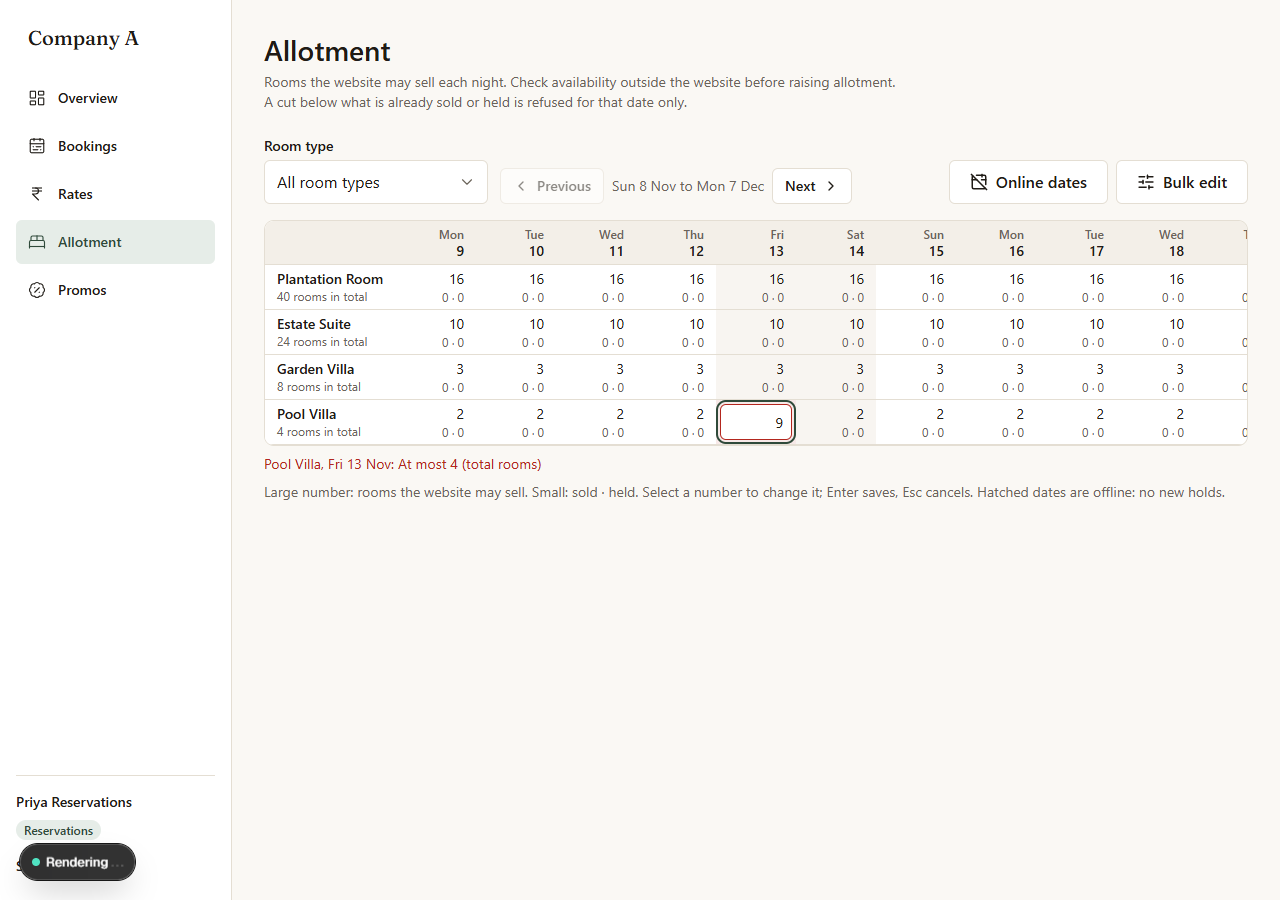
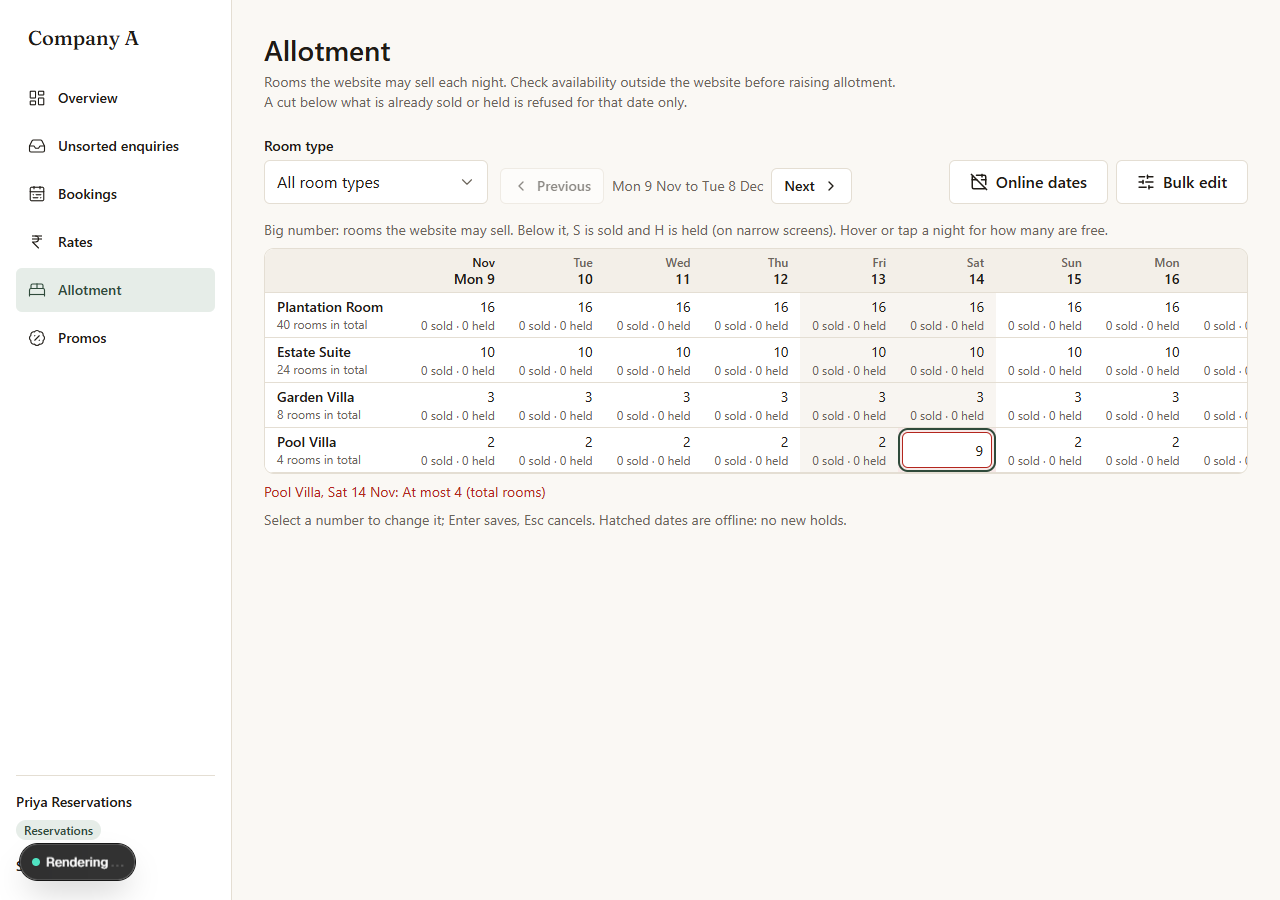
feat(admin): readable allotment labels (sold, held, free) with a legend

Changed region(s): [[0.1875, 0.2489, 0.9688, 0.5911], [0.0, 0.1556, 0.1875, 0.4044], [0.4688, 0.1867, 0.625, 0.2178]]

diff --git a/src/app/(staff)/admin/(app)/allotment/allotment-board.tsx b/src/app/(staff)/admin/(app)/allotment/allotment-board.tsx
@@ -12,6 +12,7 @@ import {
   rejectionMessage,
   ALL_DAYS,
 } from "@/modules/admin/rules";
+import { freeLabel, stockLabel } from "@/modules/admin/rules";
 import type { AllotmentGridRow, BlackoutRow, RejectedAllotment } from "@/modules/admin";
 import { CheckGroup, dateColumns, DateStepper, DayPicker } from "../_components/grid-dates";
 import { setAllotmentAction } from "./actions";
@@ -79,25 +80,26 @@ export function AllotmentBoard({
   const visible = rows.filter((r) => room === "all" || r.roomTypeId === room);
   const gridRows: GridRow[] = visible.map((r) => {
     const cells: GridRow["cells"] = {};
-    const sub: Record<string, string> = {};
+    const sub: NonNullable<GridRow["sub"]> = {};
     const tone: NonNullable<GridRow["tone"]> = {};
     const note: Record<string, string> = {};
     for (const c of columns) {
       const n = r.nights[c.key];
       cells[c.key] = n ? n.allotment : null;
-      if (n) sub[c.key] = `${n.sold} · ${n.held}`;
-      else note[c.key] = "No stock row yet. Set a number to create it.";
+      if (n) sub[c.key] = stockLabel(n.sold, n.held);
       const off = offlineOn(blackouts, r.roomTypeId, c.key);
-      if (off) {
-        tone[c.key] = "offline";
-        note[c.key] =
-          `Offline${off.roomTypeId === null ? " (all rooms)" : ""}: ${off.reason ?? "no reason given"}`;
-      }
+      if (off) tone[c.key] = "offline";
       const why = rejectedCells[`${r.roomTypeId}|${c.key}`];
-      if (why) {
-        tone[c.key] = "danger";
-        note[c.key] = why;
-      }
+      if (why) tone[c.key] = "danger";
+      note[c.key] = [
+        why,
+        off
+          ? `Offline${off.roomTypeId === null ? " (all rooms)" : ""}: ${off.reason ?? "no reason given"}`
+          : null,
+        n ? freeLabel(n) : "No stock row yet. Set a number to create it.",
+      ]
+        .filter(Boolean)
+        .join(". ");
     }
     return {
       id: r.roomTypeId,
@@ -191,6 +193,10 @@ export function AllotmentBoard({
 
       <div className={panel !== "none" ? "grid gap-4 xl:grid-cols-[minmax(0,1fr)_340px]" : ""}>
         <div className="flex min-w-0 flex-col gap-2">
+          <p className="text-small text-muted" id="allotment-legend">
+            Big number: rooms the website may sell. Below it, S is sold and H is held (on narrow
+            screens). Hover or tap a night for how many are free.
+          </p>
           <DataGrid
             caption="Website allotment per night"
             columns={columns}
@@ -201,8 +207,7 @@ export function AllotmentBoard({
             emptyMessage="No room types match this filter."
           />
           <p className="text-small text-muted">
-            Large number: rooms the website may sell. Small: sold · held. Select a number to change
-            it; Enter saves, Esc cancels.
+            Select a number to change it; Enter saves, Esc cancels.
             {canToggle ? " Hatched dates are offline: no new holds." : ""}
           </p>
         </div>

diff --git a/src/components/ui/data-grid.tsx b/src/components/ui/data-grid.tsx
@@ -32,8 +32,12 @@ export type GridRow = {
   cells: Record<string, string | number | null>;
   /** Text shown instead of the raw value, e.g. "₹12,400" for 12400. */
   display?: Record<string, string>;
-  /** Small secondary text under a cell value, e.g. "3 · 1". */
-  sub?: Record<string, string>;
+  /**
+   * Small secondary text under a cell value. `{ full, short }` shows `full` from the md
+   * breakpoint and `short` below it (e.g. "0 sold · 1 held" / "S 0 · H 1"); explain `short` in a
+   * legend. Screen readers always get `full`.
+   */
+  sub?: Record<string, string | { full: string; short: string }>;
   tone?: Record<string, CellTone>;
   /** Why a cell looks the way it does; shown on hover, focus or tap. */
   note?: Record<string, string>;
@@ -141,7 +145,8 @@ export function DataGrid({
                     row.display?.[c.key] ?? (value === null ? "—" : String(value ?? ""));
                   const tone = row.tone?.[c.key];
                   const note = row.note?.[c.key];
-                  const sub = row.sub?.[c.key];
+                  const subText = row.sub?.[c.key];
+                  const sub = typeof subText === "object" ? subText.full : subText;
                   const saved = sameCell(edit.saved, here);
                   const content = (
                     <>
@@ -151,7 +156,18 @@ export function DataGrid({
                         ) : null}
                         {shown}
                       </span>
-                      {sub ? <span className="text-xs text-muted">{sub}</span> : null}
+                      {typeof subText === "object" ? (
+                        <>
+                          <span className="hidden text-xs whitespace-nowrap text-muted md:inline">
+                            {subText.full}
+                          </span>
+                          <span className="text-xs whitespace-nowrap text-muted md:hidden">
+                            {subText.short}
+                          </span>
+                        </>
+                      ) : sub ? (
+                        <span className="text-xs text-muted">{sub}</span>
+                      ) : null}
                     </>
                   );
                   return (

diff --git a/src/modules/admin/rules.test.ts b/src/modules/admin/rules.test.ts
@@ -1,5 +1,7 @@
 import { describe, expect, it } from "vitest";
 import {
+  freeLabel,
+  stockLabel,
   adminWindow,
   bulkPreview,
   clampGridStart,
@@ -107,5 +109,17 @@ describe("parseRupees", () => {
     expect(parseRupees("12.5")).toBeNaN();
     expect(parseRupees("-5")).toBeNaN();
     expect(parseRupees("")).toBeNaN();
+  });
+});
+
+describe("allotment cell labels", () => {
+  it("spells out sold and held, with a short form for narrow screens", () => {
+    expect(stockLabel(0, 1)).toEqual({ full: "0 sold · 1 held", short: "S 0 · H 1" });
+  });
+  it("free count never goes below 0", () => {
+    expect(freeLabel({ allotment: 4, sold: 1, held: 1 })).toBe(
+      "2 free to sell (allotment 4, 1 sold, 1 held)",
+    );
+    expect(freeLabel({ allotment: 1, sold: 1, held: 1 })).toMatch(/^0 free/);
   });
 });

diff --git a/src/modules/admin/rules.ts b/src/modules/admin/rules.ts
@@ -105,3 +105,14 @@ export function rejectionMessage(r: {
     ? `At least ${r.min} (already sold or held)`
     : `At most ${r.cap} (total rooms)`;
 }
+
+/** Sold and held under the allotment: spelled out when there is room, letters on narrow screens. */
+export function stockLabel(sold: number, held: number) {
+  return { full: `${sold} sold · ${held} held`, short: `S ${sold} · H ${held}` };
+}
+
+/** Tooltip/tap text: rooms still free to sell on the website that night. */
+export function freeLabel(n: { allotment: number; sold: number; held: number }) {
+  const free = Math.max(0, n.allotment - n.sold - n.held);
+  return `${free} free to sell (allotment ${n.allotment}, ${n.sold} sold, ${n.held} held)`;
+}

diff --git a/src/app/dev/ui/showcase.tsx b/src/app/dev/ui/showcase.tsx
@@ -353,7 +353,9 @@ export function Showcase({ quoteFixture }: { quoteFixture: Quote }) {
             const n = Number(value);
             if (!Number.isInteger(n) || n < 0) return "Enter a whole number, 0 or more.";
             const row = rows.find((r) => r.id === rowId)!;
-            const committed = Number(row.sub?.[key]?.match(/sold (\d+)/)?.[1] ?? 0);
+            const sub = row.sub?.[key];
+            const text = typeof sub === "object" ? sub.full : sub;
+            const committed = Number(text?.match(/sold (\d+)/)?.[1] ?? 0);
             if (n < committed)
               return `Cannot go below ${committed}: that many rooms are already sold or held on this date.`;
             setRows((rs) =>

diff --git a/docs/s2-admin-handoff.md b/docs/s2-admin-handoff.md
@@ -34,6 +34,7 @@ Verdict FIX MAJORS: 0 blockers, 3 majors. Scrum master decisions approved in the
 | M01 rates grid: saved prices are an optimistic overlay `{ value, version }` (`rates/rate-overlay.ts`, pure, 7 unit tests); refreshed rows drop overlays they match or that are not newer than the last refresh; a bulk save clears overlays in its rooms, plans, dates and weekdays; an older response cannot restore one | done | 2f13d89 |
 | M02 `setOffline` creates missing stock rows (0, 0, 0) in `(room_type_id, date)` order, then the existing ordered lock, then the blackout. Test seam `afterLock`. PostgreSQL test: offline paused after locking, A2 on the missing date stays blocked (15 s), a guest hold fails, then BLACKOUT, no HELD booking. Same test fails with the fix removed (A2 settled in about 3 s) | done | 48d9d78 |
 | M03 approved booking read `booking.listOverlappingForStaff` (`booking/{index,staff}.ts`: overlap, room filter and live statuses in SQL before the limit, keyset cursor on check_in, id); `bookingsInRange` pages it to 1,000, else `truncated`; panel shows "More than 1,000 bookings overlap..." and keeps the action; 60 day look-back removed. PostgreSQL `admin-warning.test.ts` 3/3: the audit's 200-newer-elsewhere case, a stay from 90 days before, live vs lapsed hold, expired, edge stays, room filter, paging, 1,001 gives truncated, sales and guest FORBIDDEN | done | cbe0582 |
+| Allotment cell label: "0 sold · 1 held" from the md breakpoint, "S 0 · H 1" below it, legend above the grid (big number = website allotment, S sold, H held), free count in the hover/focus/tap note ("15 free to sell (allotment 16, 1 sold, 0 held)"). `GridRow.sub` accepts `{ full, short }`; screen readers get `full`. Helpers `stockLabel`, `freeLabel` in `admin/rules.ts` (unit tested). Screenshots `a2-*` regenerated; new `a2-free-note-375`, `a1-inline-12500-desktop`, `a1-inline-then-bulk-desktop`, `a3-warning-lists-bookings-desktop` | done | LBLSHA |
 
 ## Review (independent subagent, no context: runbook, `01`, `git diff main...HEAD`)
 No blockers. Major 1: a concurrent offline and online edit on the same blackout could lose the online part (one merged the row away while the other's `FOR UPDATE` skipped it). Fixed: `pg_advisory_xact_lock` first in `setOffline` and `setOnline`; holds never take it. Checked and found correct: permission on every entry point, stock invariants, lock order with holds, Zod, paise, window, parameterised SQL.
